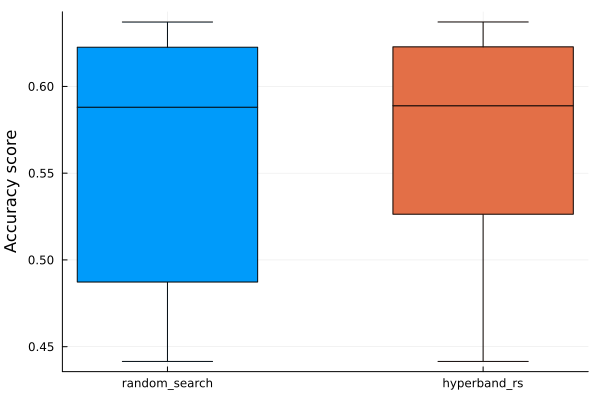
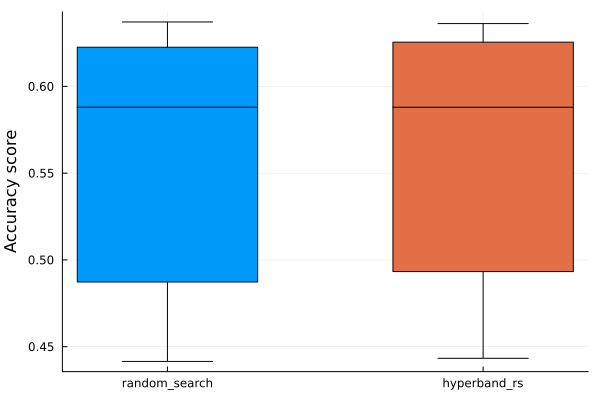
Finish the report

diff --git a/report.md b/report.md
@@ -1,0 +1,81 @@
+# Hyperparameter optimization report
+
+## Introduction
+
+This report is a summary of the hyperparameter optimization process for the models used to predict the red wine quality with `winequality-red.csv` dataset. Since there are only six different quality levels (i.e. 3-8), I treat this problem as a classification problem. The goal is to find the best hyperparameters for each model to maximize the accuracy of the predictions. Three ML models are used in this report: Random Forest, Gradient Boosting, and Support Vector Machine.
+
+## Dataset description
+
+The dataset contains 1599 observations with 12 columns in each observation. There is no missing data in the dataset. The target variable is `quality`, which is an integer between 3 and 8. The rest of the columns are features of the wine. I consider all feature columns as continuous numerical variables. The dataset is divided into 70% training and 30% testing.
+
+## Experiment setup
+
+I used Julia to run the experiments. In particular, the two main packages `AutoMLPipeline` and `Hyperopt` are used to perform the hyperparameter optimization. The `AutoMLPipeline` package provides a high-level interface to design the training pipeline and the `Hyperopt` package provides the hyperparameter optimization algorithm. The `AutoMLPipeline` package also provides a convenient way to perform cross-validation and evaluate the model performance. A random seed is used to ensure experiment reproducibility. Given the type of the problem, I use accuracy as the metric to evaluate the model performance. For this classification problem, I choose these three models to perform the hyperparameter optimization: Random Forest, Gradient Boosting, and Support Vector Machine. This choice is based on the application of the models and my personal preference for exploration with them.
+
+I will discuss the experiment setup in two sections: preprocessing and hyperparameter optimization.
+
+### Preprocessing
+
+First, the features are discretized into categorical and numerical variables based on the data type and the occurrence of each unqiue values. The numerical variables are normalized using the `RobustScaler` and then dimension reduced with 5 components PCA. The categorical variables are then encoded using one-hot encoding. However, as aforementioned in the dataset description, all features are considered as continuous numerical variables. Therefore, all features are treated with numerical preprocessing.
+
+### Hyperparameter optimization
+
+The hyperparameter optimization is performed using the `Hyperopt` package. The `Hyperopt` package provides a convenient and clean API to achieve HPO with various sampler. For each model, I used three samplers for HPO: random sampler (RS), Hyperband with random sampler (RSHB) and Hyperband with Bayesian sampler (BOHB). Since `Hyperopt`'s Bayesian sampler can only be used for continuous variables, SVM is not included in the Bayesian sampler run. Since we want to maximize the accuracy, the objective function is set to minimize the negative accuracy. The maximum number of iterations is set to 50 for random sampler, and the resource for HB is R=50 with n=3. The best hyperparameters are selected based on the best accuracy. The model is evaluated using 5-fold cross-validation. The accuracy is used as the metric to evaluate the model performance.
+
+## Results
+
+### Random Forest
+
+The hyperparameters to optimize are number of estimators with range [10, 300), max tree depth [1, 30) and max number of features [1, 30). The performance/loss plot for the random sampler, RSHB, and BOHB is shown below.
+
+![rf_perf](./rf/perfplot.png)
+
+There are two clear observations in the plot:
+
+1. There is a accuracy roof around 0.6 for all HPO algorithm.
+2. The BOHB sampler reaches the accuracy roof ("converge") faster than the random sampler and RSHB.
+
+The best hyperparameters for each sampler are shown in the table below.
+
+| Sampler | n_estimators | max_depth | max_features | 5-fold test CV mean accuracy |
+|---------|-------------|------------------|-------------|----------|
+| RS | 102 | 10 | 4 | 0.5667 |
+| RSHB | 110 | 23 | 12 | 0.5916 |
+| BOHB | 101 | 19 | 18 | 0.5708 |
+
+### Gradient Boosting
+
+The hyperparameters to optimize are number of estimators with range [10, 500), learning rate [0.01, 0.5) and max depth [1, 30). The performance plot for the random sampler, RSHB, and BOHB is shown below.
+
+![gb_perf](./gb/perfplot.png)
+
+THe plot above is noiser than the random forest performance plot. Generally, the BOHB sampler performs consistently better than the random sampler and RSHB, as the green line is above two other lines most of the time.
+
+The best hyperparameters for each sampler are shown in the table below.
+
+| Sampler | n_estimators | learning_rate | max_depth | 5-fold test CV mean accuracy |
+|---------|-------------|------------------|-------------|----------|
+| RS | 228 | 0.07434| 9 | 0.5396 |
+| RSHB | 434.0 | 0.3763 | 6.0 | 0.5521 |
+| BOHB | 441.0 | 0.2872 | 7.0 | 0.5813 |
+
+### Support Vector Machine
+
+Since the kernel types of SVM are discrete and `Hyperopt`'s Bayesian sampler does not support categorical variable, the Bayesian sampler is not used for SVM. The hyperparameters to optimize are C (regularization) with range [0.1, 10), kernels have these options [linear, poly, rbf, sigmoid], and gamma with range [1, 10). The performance plot for the random sampler and RSHB is shown below.
+
+![svm_perf](./svm/perfplot.png)
+
+The performance plot does not show a clear trend as the previous two models. The random search and RSHB have very similar performance in terms of discovering the performance roof. The best hyperparameters for each sampler are shown in the table below.
+
+| Sampler | C | kernel | gamma | 5-fold test CV mean accuracy |
+|---------|-------------|------------------|-------------|----------|
+| RS | 5.7 | rbf | 10 | 0.5667 |
+| RSHB | 5.5 | rbf | 6 | 0.5542 |
+
+## Conclusion
+
+The boxplot to compare the performance of the three models using Hyperband with random sampler is shown below.
+
+![boxplot](./all_hbrs_perf_boxplot.png)
+
+The figure above shows that the random forest has the best overall performance among the three models. It has highest average accuracy and lowest dispersion. The gradient boosting has the second best performance, and the SVM has the worst performance. The SVM model has the highest dispersion and lowest average accuracy as expected, because the performance curve of SVM is noisier than the other two models.
